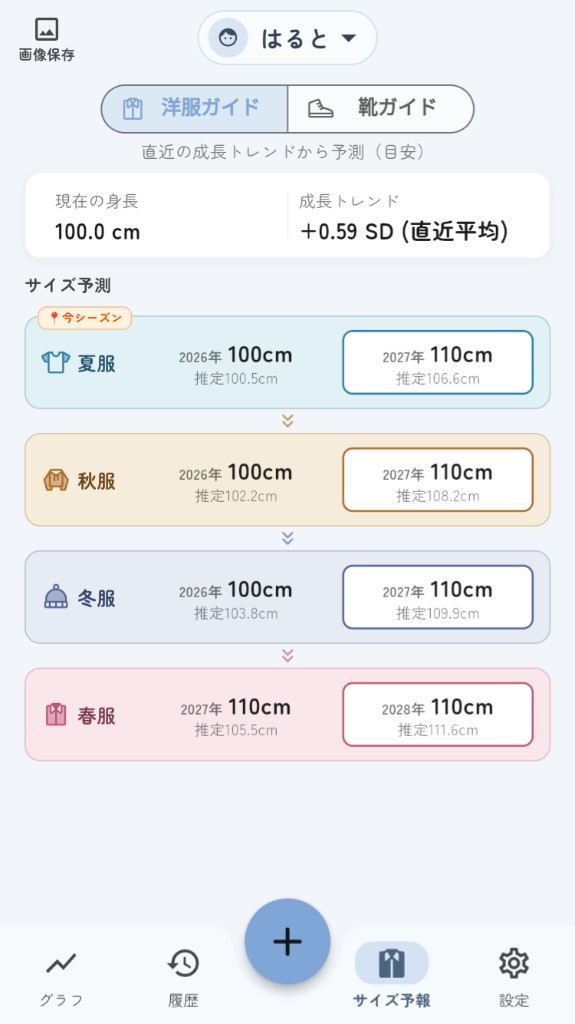
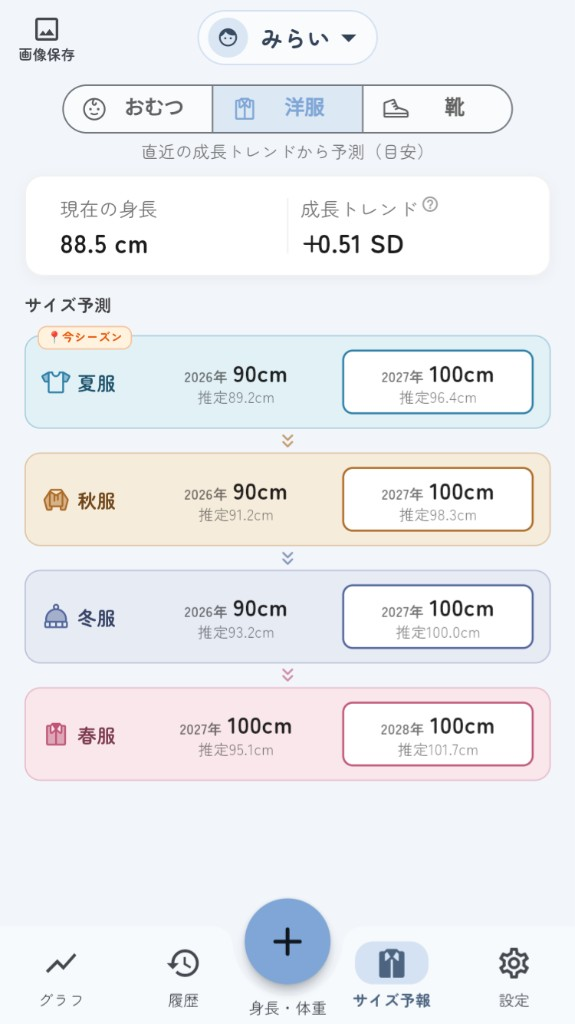
紹介ページを更新：おむつガイドのスライド追加、新UIスクショ・共有画像サンプル・OG画像を差し替え。

diff --git a/docs/index.html b/docs/index.html
@@ -3,11 +3,11 @@
 <head>
   <meta charset="UTF-8">
   <meta name="viewport" content="width=device-width, initial-scale=1">
-  <title>サイズ予報｜成長曲線で、服と靴のサイズを予報する子育てアプリ</title>
-  <meta name="description" content="サイズ予報は、子どもの身長・体重を成長曲線に記録し、洋服・靴サイズの買い替え時期を先読みできる保護者向けアプリです。健診で使える受診レポート（PDF）やお誕生日アルバムも。">
+  <title>サイズ予報｜成長曲線で、服・靴・おむつのサイズを予報する子育てアプリ</title>
+  <meta name="description" content="サイズ予報は、子どもの身長・体重を成長曲線に記録し、洋服・靴・おむつサイズの買い替え時期を先読みできる保護者向けアプリです。健診で使える受診レポート（PDF）やお誕生日アルバムも。">
   <meta name="author" content="MIYA APPS">
-  <meta property="og:title" content="サイズ予報｜成長曲線で、服と靴のサイズを予報">
-  <meta property="og:description" content="子どもの成長記録から、服・靴サイズの買い替え時期を先読み。健診向け受診レポート（PDF）やお誕生日アルバムも。">
+  <meta property="og:title" content="サイズ予報｜成長曲線で、服・靴・おむつのサイズを予報">
+  <meta property="og:description" content="子どもの成長記録から、服・靴・おむつサイズの買い替え時期を先読み。健診向け受診レポート（PDF）やお誕生日アルバムも。">
   <meta property="og:type" content="website">
   <meta property="og:url" content="https://miya-apps.github.io/sizeyoho/">
   <meta property="og:image" content="https://miya-apps.github.io/sizeyoho/og-image.png">
@@ -15,8 +15,8 @@
   <meta property="og:image:height" content="630">
   <meta property="og:locale" content="ja_JP">
   <meta name="twitter:card" content="summary_large_image">
-  <meta name="twitter:title" content="サイズ予報｜成長曲線で、服と靴のサイズを予報">
-  <meta name="twitter:description" content="子どもの成長記録から、服・靴サイズの買い替え時期を先読み。">
+  <meta name="twitter:title" content="サイズ予報｜成長曲線で、服・靴・おむつのサイズを予報">
+  <meta name="twitter:description" content="子どもの成長記録から、服・靴・おむつサイズの買い替え時期を先読み。">
   <meta name="twitter:image" content="https://miya-apps.github.io/sizeyoho/og-image.png">
   <link rel="icon" type="image/png" href="icon.png">
   <link rel="canonical" href="https://miya-apps.github.io/sizeyoho/">
@@ -30,7 +30,7 @@
     "name": "サイズ予報",
     "operatingSystem": "Android, iOS",
     "applicationCategory": "HealthApplication",
-    "description": "子どもの身長・体重を成長曲線に記録し、洋服・靴サイズの買い替え時期を先読みできる保護者向けアプリ。",
+    "description": "子どもの身長・体重を成長曲線に記録し、洋服・靴・おむつサイズの買い替え時期を先読みできる保護者向けアプリ。",
     "url": "https://miya-apps.github.io/sizeyoho/",
     "image": "https://miya-apps.github.io/sizeyoho/icon.png",
     "author": {
@@ -299,6 +299,28 @@
       margin-top: 14px;
     }
 
+    /* ── 共有用画像のサンプル ── */
+    .share-samples {
+      display: grid;
+      grid-template-columns: repeat(auto-fit, minmax(220px, 1fr));
+      gap: 14px;
+    }
+    .share-samples figure {
+      margin: 0;
+    }
+    .share-samples img {
+      width: 100%;
+      height: auto;
+      border-radius: 16px;
+      box-shadow: 0 2px 8px rgba(61, 68, 77, 0.08);
+    }
+    .share-samples figcaption {
+      font-size: 0.85rem;
+      color: #55606B;
+      text-align: center;
+      margin-top: 6px;
+    }
+
     /* ── 比較表 ── */
     .compare-wrap { overflow-x: auto; }
     table.compare {
@@ -456,8 +478,8 @@
   <div class="hero">
     <img class="appicon" src="icon.png" alt="サイズ予報のアイコン">
     <h1>サイズ予報</h1>
-    <p class="tagline">成長曲線で、服と靴のサイズを予報</p>
-    <p class="sub">身長・体重を記録するだけ。次に買う服と靴のサイズが見えてくる。</p>
+    <p class="tagline">成長曲線で、服・靴・おむつのサイズを予報</p>
+    <p class="sub">身長・体重を記録するだけ。次に買う服・靴・おむつのサイズが見えてくる。</p>
     <div class="store-badges">
       <span>App Store：準備中</span>
       <span>Google Play：準備中</span>
@@ -483,7 +505,7 @@
       <h2>こんなアプリです</h2>
       <div class="screenshot-carousel" id="screenshot-carousel" tabindex="0" role="group" aria-roledescription="カルーセル" aria-label="アプリのスクリーンショット">
         <figure class="screenshot-slide">
-          <img src="store-assets/slide-05-overview.png" alt="成長曲線で、服と靴のサイズを予報" width="472" height="1024" loading="eager">
+          <img src="store-assets/slide-05-overview.png" alt="成長曲線で、服・靴・おむつのサイズを予報" width="472" height="1024" loading="eager">
         </figure>
         <figure class="screenshot-slide">
           <img src="store-assets/slide-01-growth-curve.png" alt="母子手帳の成長曲線、アプリでかんたん記録" width="472" height="1024" loading="lazy">
@@ -497,6 +519,9 @@
         <figure class="screenshot-slide">
           <img src="store-assets/slide-04-shoe-guide.png" alt="「足痛い」の前に、気づける" width="472" height="1024" loading="lazy">
         </figure>
+        <figure class="screenshot-slide">
+          <img src="store-assets/slide-06-diaper-guide.png" alt="おむつのサイズアップ、いつ？に答える" width="472" height="1024" loading="lazy">
+        </figure>
       </div>
       <div class="screenshot-dots" id="screenshot-dots" aria-label="スクリーンショットの切り替え">
         <button type="button" aria-label="1枚目" aria-current="true" class="active"></button>
@@ -504,6 +529,7 @@
         <button type="button" aria-label="3枚目"></button>
         <button type="button" aria-label="4枚目"></button>
         <button type="button" aria-label="5枚目"></button>
+        <button type="button" aria-label="6枚目"></button>
       </div>
     </section>
   </div>
@@ -514,13 +540,13 @@
       <div class="steps">
         <div class="step"><strong>お子様を登録</strong>：生年月日と性別に加え、アイコンとテーマカラーも選べます。きょうだいの登録もOK。早産児の場合は修正月齢の設定もできます。</div>
         <div class="step"><strong>身長・体重・足長を記録</strong>：健診や身体測定のタイミングでOK。数回の記録から傾向をつかみます。</div>
-        <div class="step"><strong>予報をチェック</strong>：洋服サイズの目安を確認。靴の次の購入予報はPro版で表示されます。</div>
+        <div class="step"><strong>予報をチェック</strong>：洋服・おむつサイズの目安を確認。靴の次の購入予報はPro版で表示されます。</div>
       </div>
     </section>
 
     <section>
       <h2>記録から、買い替えまで</h2>
-      <p class="lead">成長を記録するだけで、服と靴の買い替えまでひとつながりでサポートします。</p>
+      <p class="lead">成長を記録するだけで、服・靴・おむつの買い替えまでひとつながりでサポートします。</p>
       <div class="features">
         <div class="feature">
           <span class="icon" aria-hidden="true"><svg viewBox="0 0 24 24"><path d="M4 17.5 9 12l3.5 3L20 6.5"/><circle cx="9" cy="12" r="1.5" fill="currentColor" stroke="none"/><circle cx="12.5" cy="15" r="1.5" fill="currentColor" stroke="none"/><circle cx="20" cy="6.5" r="1.5" fill="currentColor" stroke="none"/><circle cx="4" cy="17.5" r="1.5" fill="currentColor" stroke="none"/></svg></span>
@@ -536,6 +562,16 @@
           <span class="icon" aria-hidden="true"><svg viewBox="0 0 24 24"><path d="M3 17v-4.2c2.8-.2 4.9-1.2 6.4-2.8l1.5 1.5 1.5-1 1.5 1.5 1.6-1c1.9 1.9 3.7 2.5 5.5 2.9V17Z"/><path d="M3 17h18"/></svg></span>
           <h3>「足痛い」と言われる前に気づける</h3>
           <p>足長の実測からいまの目安を表示。小さくなる前に買い替えのタイミングがわかります。Pro版なら「次に買うサイズと時期」まで先読みできます（無料版では表示されません）。</p>
+        </div>
+        <div class="feature">
+          <span class="icon" aria-hidden="true"><svg viewBox="0 0 24 24"><path d="M5 8.5h14v3.5a7 7 0 0 1-14 0Z"/><path d="M5 8.5C5 6 6.8 4.5 9 4.5h6c2.2 0 4 1.5 4 4"/><path d="M9.5 15.5c.7.7 1.5 1 2.5 1s1.8-.3 2.5-1"/></svg></span>
+          <h3>おむつのサイズアップも、体重から先読み</h3>
+          <p>メーカー公表の対応体重とお子様の体重記録から、いまの目安サイズと切り替わりの時期を表示。よく使うブランド・シリーズを登録して使えます。</p>
+        </div>
+        <div class="feature">
+          <span class="icon" aria-hidden="true"><svg viewBox="0 0 24 24"><rect x="4" y="4" width="16" height="16" rx="2.5"/><path d="M4 15.5 9 11l4 3.5 3-2.5 4 3.5"/><circle cx="9.5" cy="8.5" r="1.4" fill="currentColor" stroke="none"/></svg></span>
+          <h3>グラフもガイドも、そのまま画像で残せる</h3>
+          <p>成長曲線・SDスコア・サイズガイドを、共有しやすい正方形の画像で保存（Pro版）。家族への共有や成長の記念に。</p>
         </div>
         <div class="feature">
           <span class="icon" aria-hidden="true"><svg viewBox="0 0 24 24"><rect x="5" y="4" width="14" height="17" rx="2"/><rect x="9" y="2.5" width="6" height="3.5" rx="1.2"/><path d="M8 11h8M8 14.5h8M8 18h5"/></svg></span>
@@ -576,6 +612,25 @@
     </section>
 
     <section>
+      <h2>記録が、そのまま共有できる画像に</h2>
+      <p class="lead">Pro版の画像保存では、グラフやサイズガイドをこんな正方形の画像で保存できます。家族へのメッセージやSNSにそのまま使えます。</p>
+      <div class="share-samples">
+        <figure>
+          <img src="screenshots/share-growth-curve.png" alt="成長曲線の保存画像サンプル" width="512" height="512" loading="lazy">
+          <figcaption>成長曲線</figcaption>
+        </figure>
+        <figure>
+          <img src="screenshots/share-diaper.png" alt="おむつサイズ予報の保存画像サンプル" width="512" height="512" loading="lazy">
+          <figcaption>おむつサイズ予報</figcaption>
+        </figure>
+        <figure>
+          <img src="screenshots/share-shoe.png" alt="靴サイズ予報の保存画像サンプル" width="512" height="512" loading="lazy">
+          <figcaption>靴サイズ予報</figcaption>
+        </figure>
+      </div>
+    </section>
+
+    <section>
       <h2>料金と機能の違い</h2>
       <p class="lead">主要機能は無料。靴の先読み予報・広告非表示などは Pro でご利用いただけます。</p>
       <div class="compare-wrap">
@@ -599,6 +654,11 @@
               <td class="yes">○</td>
             </tr>
             <tr>
+              <td>おむつサイズの目安・切り替え予報</td>
+              <td class="yes">○</td>
+              <td class="yes">○</td>
+            </tr>
+            <tr>
               <td>靴のいまの目安</td>
               <td class="yes">○</td>
               <td class="yes">○</td>
@@ -611,6 +671,11 @@
             <tr>
               <td>受診レポート（PDF）</td>
               <td class="yes">○</td>
+              <td class="yes">○</td>
+            </tr>
+            <tr>
+              <td>グラフ・ガイドの画像保存（正方形）</td>
+              <td class="no">—</td>
               <td class="yes">○</td>
             </tr>
             <tr>
@@ -650,6 +715,7 @@
         <h3>サイズ予報 Pro</h3>
         <ul>
           <li>靴の次の購入サイズと時期の予報（その先まで）</li>
+          <li>グラフ・サイズガイドの画像保存（共有しやすい正方形）</li>
           <li>オンライン自動バックアップ（機種変更・故障に備えて自動保存）</li>
           <li>広告非表示</li>
         </ul>
@@ -670,7 +736,11 @@
       <h2>よくある質問</h2>
       <details>
         <summary>無料で使えますか？</summary>
-        <p>成長曲線の記録・洋服サイズの目安・受診レポート（PDF）・お誕生日アルバムなど、主要な機能は無料でお使いいただけます。靴の次の購入予報やオンライン自動バックアップはPro版の機能です。</p>
+        <p>成長曲線の記録・洋服やおむつサイズの目安・受診レポート（PDF）・お誕生日アルバムなど、主要な機能は無料でお使いいただけます。靴の次の購入予報・画像保存・オンライン自動バックアップはPro版の機能です。</p>
+      </details>
+      <details>
+        <summary>おむつのサイズも見られますか？</summary>
+        <p>見られます。お子様ごとに「おむつガイド」をONにすると、各メーカーが公表している対応体重と体重の記録から、いまの目安サイズとサイズが切り替わる時期を表示します。よく使うブランド・シリーズ・タイプ（テープ／パンツ）を登録して使えます。</p>
       </details>
       <details>
         <summary>予測はどのくらい当たりますか？</summary>
@@ -686,7 +756,7 @@
       </details>
       <details>
         <summary>記録したデータはどこに保存されますか？</summary>
-        <p>基本はお使いの端末の中に保存されます。Pro版のオンライン自動バックアップを有効にした場合のみ、暗号化された通信でクラウドに保存されます。詳しくは<a href="privacy.html">プライバシーポリシー</a>をご覧ください。</p>
+        <p>基本はお使いの端末の中に保存されます。Pro版のオンライン自動バックアップを有効にした場合のみ、暗号化された通信でクラウドに保存されます。なお、写真（お子様のアイコン・お誕生日の思い出）はバックアップを有効にしてもクラウドへ送信されず、端末内にのみ保存されます。詳しくは<a href="privacy.html">プライバシーポリシー</a>をご覧ください。</p>
       </details>
       <details>
         <summary>修正月齢とは？</summary>
@@ -706,7 +776,7 @@
       <h2>作った人より</h2>
       <div class="about-card">
         <p><strong>MIYA APPS</strong>（個人事業主）が開発・運営しています。</p>
-        <p>子育て中の保護者目線で、「服と靴の買い替えタイミングがわからない」という日常の悩みを、成長記録アプリで解決したいと考えて作りました。</p>
+        <p>子育て中の保護者目線で、「服・靴・おむつの買い替えタイミングがわからない」という日常の悩みを、成長記録アプリで解決したいと考えて作りました。</p>
         <p>
           お問い合わせ：<a href="contact.html">お問い合わせページ</a><br>
           プライバシー：<a href="privacy.html">プライバシーポリシー</a>

diff --git a/docs/store-assets/og-image.html b/docs/store-assets/og-image.html
@@ -1,0 +1,54 @@
+<!DOCTYPE html>
+<html lang="ja">
+<head>
+  <meta charset="UTF-8">
+  <meta name="viewport" content="width=1200">
+  <title>OGP画像（1200×630）</title>
+  <link rel="preconnect" href="https://fonts.googleapis.com">
+  <link rel="preconnect" href="https://fonts.gstatic.com" crossorigin>
+  <link href="https://fonts.googleapis.com/css2?family=Zen+Maru+Gothic:wght@400;700;900&display=swap" rel="stylesheet">
+  <style>
+    * { margin: 0; padding: 0; box-sizing: border-box; }
+    body {
+      width: 1200px;
+      height: 630px;
+      overflow: hidden;
+      font-family: 'Zen Maru Gothic', sans-serif;
+      background: linear-gradient(135deg, #EAF8F0 0%, #D3F0E2 60%, #C8EDDB 100%);
+      color: #3D444D;
+      position: relative;
+    }
+    .circle { position: absolute; border-radius: 50%; }
+    .c1 { width: 300px; height: 300px; top: -110px; right: -70px; background: rgba(255, 255, 255, 0.5); }
+    .c2 { width: 230px; height: 230px; bottom: -90px; right: 140px; background: rgba(76, 175, 135, 0.10); }
+    .c3 { width: 90px; height: 90px; top: 60px; left: 90px; border: 3px solid rgba(76, 175, 135, 0.22); background: transparent; }
+    .c4 { width: 150px; height: 150px; bottom: 40px; left: -50px; background: rgba(255, 255, 255, 0.4); }
+    .content {
+      position: relative;
+      z-index: 1;
+      height: 100%;
+      display: flex;
+      flex-direction: column;
+      align-items: center;
+      justify-content: center;
+      text-align: center;
+    }
+    .app { font-size: 44px; font-weight: 900; color: #2E7D5B; letter-spacing: 0.08em; }
+    .line { width: 70px; height: 6px; background: #4CAF87; border-radius: 3px; margin: 22px auto 34px; }
+    h1 { font-size: 74px; font-weight: 900; line-height: 1.28; letter-spacing: 0.01em; }
+    .sub { margin-top: 26px; font-size: 30px; color: #55606B; }
+  </style>
+</head>
+<body>
+  <div class="circle c1"></div>
+  <div class="circle c2"></div>
+  <div class="circle c3"></div>
+  <div class="circle c4"></div>
+  <div class="content">
+    <div class="app">サイズ予報</div>
+    <div class="line"></div>
+    <h1>成長曲線で<br>服・靴・おむつのサイズを予報</h1>
+    <p class="sub">身長・体重を記録するだけ。買い替え時期が見えてくる。</p>
+  </div>
+</body>
+</html>

diff --git a/docs/privacy.html b/docs/privacy.html
@@ -69,6 +69,7 @@
       <h3>（1）記録データ</h3>
       <p>お子様のお名前（ニックネームでも構いません）・生年月日・性別・身長・体重・足長・写真・メモなど、利用者が入力した記録は、お使いの端末内に保存されます。</p>
       <p>Pro版の「オンライン自動バックアップ」をオンにした場合に限り、バックアップと復元のために、記録データを暗号化された通信でクラウドサーバー（Google LLC が提供する Firebase）へ送信・保存します。この目的以外に記録データを利用することはありません。オンライン自動バックアップを使わない場合、記録データが端末の外へ送信されることはありません。</p>
+      <p>なお、写真（お子様のアイコン写真・お誕生日の思い出写真）はオンライン自動バックアップをオンにしていてもクラウドへ送信されず、お使いの端末内にのみ保存されます。</p>
 
       <h3>（2）アカウント情報</h3>
       <p>オンライン自動バックアップの利用時に、サインインしたアカウントのメールアドレスとユーザーIDを取得します。これはバックアップデータの持ち主を識別するためにのみ利用します。</p>
@@ -95,7 +96,7 @@
       <h2>6. お問い合わせ</h2>
       <p><a href="contact.html">お問い合わせページ</a>の Googleフォームからご連絡ください。</p>
 
-      <p class="meta">制定日：2026年7月7日／改定日：2026年7月8日<br>MIYA APPS（サイズ予報 運営者）</p>
+      <p class="meta">制定日：2026年7月7日／最終改定日：2026年8月1日<br>MIYA APPS（サイズ予報 運営者）</p>
     </div>
   </div>
 

diff --git a/docs/store-assets/slide-06-diaper-guide.html b/docs/store-assets/slide-06-diaper-guide.html
@@ -3,13 +3,13 @@
 <head>
   <meta charset="UTF-8">
   <meta name="viewport" content="width=1290">
-  <title>ストア画像 5 — 全体訴求（A案・2画面合成）</title>
+  <title>ストア画像 6 — おむつガイド</title>
   <link rel="preconnect" href="https://fonts.googleapis.com">
   <link rel="preconnect" href="https://fonts.gstatic.com" crossorigin>
   <link href="https://fonts.googleapis.com/css2?family=Zen+Maru+Gothic:wght@400;700;900&display=swap" rel="stylesheet">
   <link rel="stylesheet" href="common.css">
 </head>
-<body class="slide-overview">
+<body>
   <div class="blob blob-1"></div>
   <div class="blob blob-2"></div>
   <div class="blob blob-3"></div>
@@ -18,22 +18,15 @@
 
   <div class="content">
     <div class="headline">
-      <h1>成長曲線で、服・靴・<br>おむつのサイズを予報</h1>
+      <h1>おむつのサイズアップ、<br>いつ？に答える</h1>
       <div class="accent-line"></div>
-      <p>身長・体重を記録するだけで、<br>買い替え時期が見える</p>
+      <p>体重の記録から、<br>切り替えの時期を先読み</p>
     </div>
 
     <div class="phone-wrap">
-      <div class="phone-duo">
-        <div class="phone phone-back">
-          <div class="phone-screen">
-            <img src="../screenshots/growth-curve.png" alt="成長曲線画面">
-          </div>
-        </div>
-        <div class="phone phone-front">
-          <div class="phone-screen">
-            <img src="../screenshots/clothing-guide.png" alt="洋服ガイド画面">
-          </div>
+      <div class="phone">
+        <div class="phone-screen">
+          <img src="../screenshots/diaper-guide.png" alt="おむつガイド画面">
         </div>
       </div>
     </div>

diff --git a/docs/store-assets/README.md b/docs/store-assets/README.md
@@ -2,9 +2,13 @@
 
 ## いちばん簡単
 
-`export-all.bat` を **ダブルクリック** → 全5枚の PNG が一括生成されます。
+`export-all.bat` を **ダブルクリック** → 全6枚の PNG が一括生成されます。
 
-個別に書き出す場合は `export-slide-01.bat` 〜 `export-slide-05.bat` を使います。
+個別に書き出す場合は `export-slide-01.bat` 〜 を使います。
+
+書き出し直後は 1290×2796（ストア提出用の原寸）です。Web に置くときは
+ページを軽くするため 472×1024 に縮小＋256色化しています（現在コミット
+されている PNG は Web 用の縮小版）。ストア提出時は再書き出ししてください。
 
 ---
 
@@ -17,16 +21,18 @@
 | 3 | `slide-02-sd-score.png` | SDスコア |
 | 4 | `slide-03-clothing-guide.png` | 洋服ガイド |
 | 5 | `slide-04-shoe-guide.png` | 靴ガイド |
+| 6 | `slide-06-diaper-guide.png` | おむつガイド |
 
 ## スライド詳細
 
 | # | HTML | スクショ | 大きい文字 | 小さい文字 |
 |---|------|----------|------------|------------|
-| 1 | `slide-05-overview.html` | 成長曲線＋洋服ガイド | 成長曲線で、服と靴のサイズを予報 | 身長・体重を記録するだけで、買い替え時期が見える |
+| 1 | `slide-05-overview.html` | 成長曲線＋洋服ガイド | 成長曲線で、服・靴・おむつのサイズを予報 | 身長・体重を記録するだけで、買い替え時期が見える |
 | 2 | `slide-01-growth-curve.html` | 成長曲線 | 母子手帳の代わりに、成長曲線アプリ | 健診のたびに、身長・体重の伸びをすぐ確認できる |
 | 3 | `slide-02-sd-score.html` | SDスコア | 健診の準備に、成長の記録を | 身長・体重のSDスコアをいつでも確認できる |
 | 4 | `slide-03-clothing-guide.html` | 洋服ガイド | 来シーズン、何cmを買えばいい？ | 成長トレンドから季節ごとのサイズを予報 |
 | 5 | `slide-04-shoe-guide.html` | 靴ガイド | 「足痛い」と言われる前に、気づける | 小さくなる前に、買い替えのタイミングがわかる |
+| 6 | `slide-06-diaper-guide.html` | おむつガイド | おむつのサイズアップ、いつ？に答える | 体重の記録から、切り替えの時期を先読み |
 
 ---
 
@@ -36,4 +42,4 @@
 
 ## 注意
 
-- スクショ内の子ども名「はると」は公開前に匿名化を検討
+- スクショ内の子ども名「みらい」はスクショ用ダミーデータの名前（実在の記録ではない）
